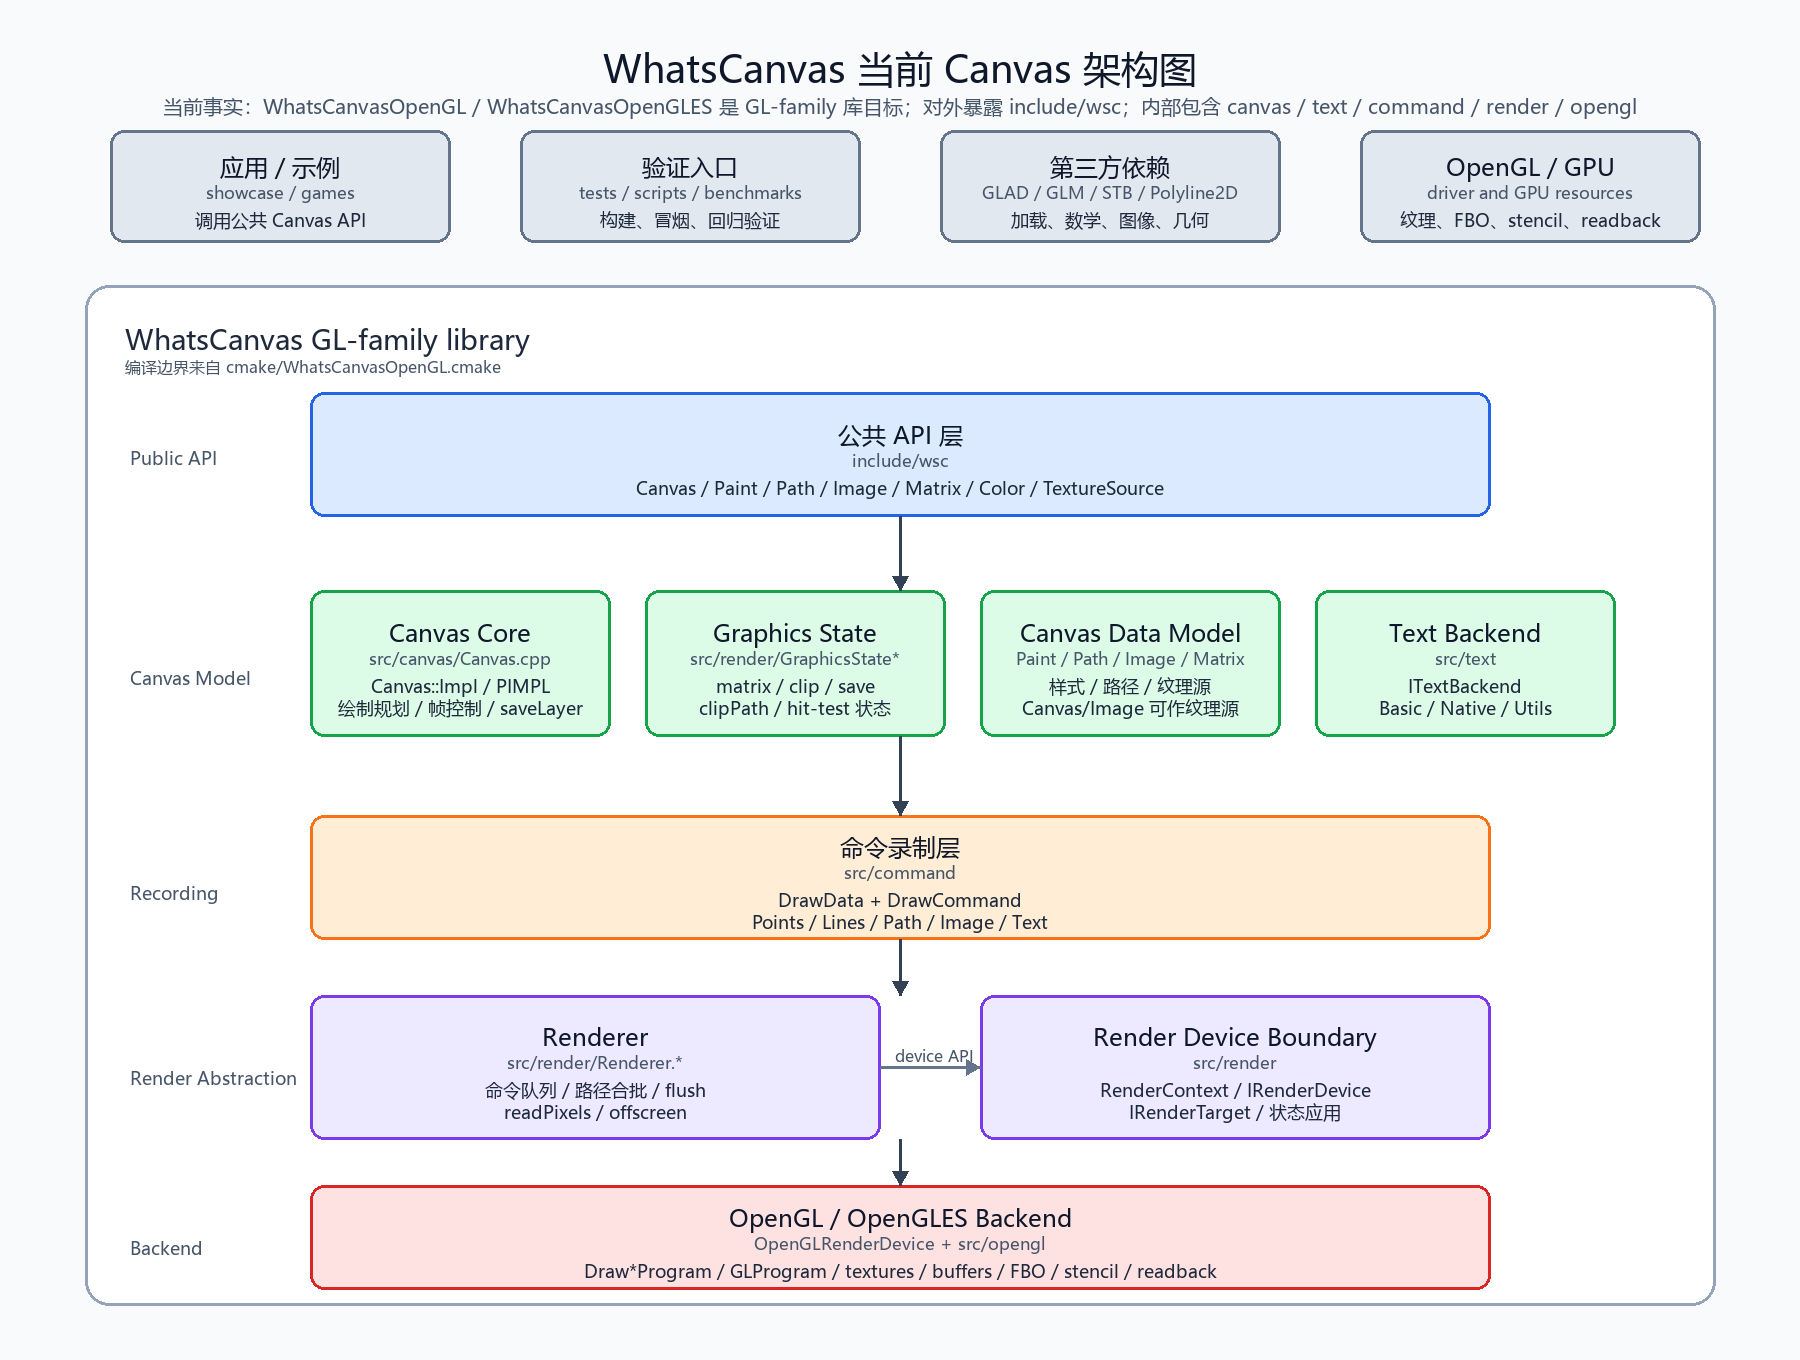
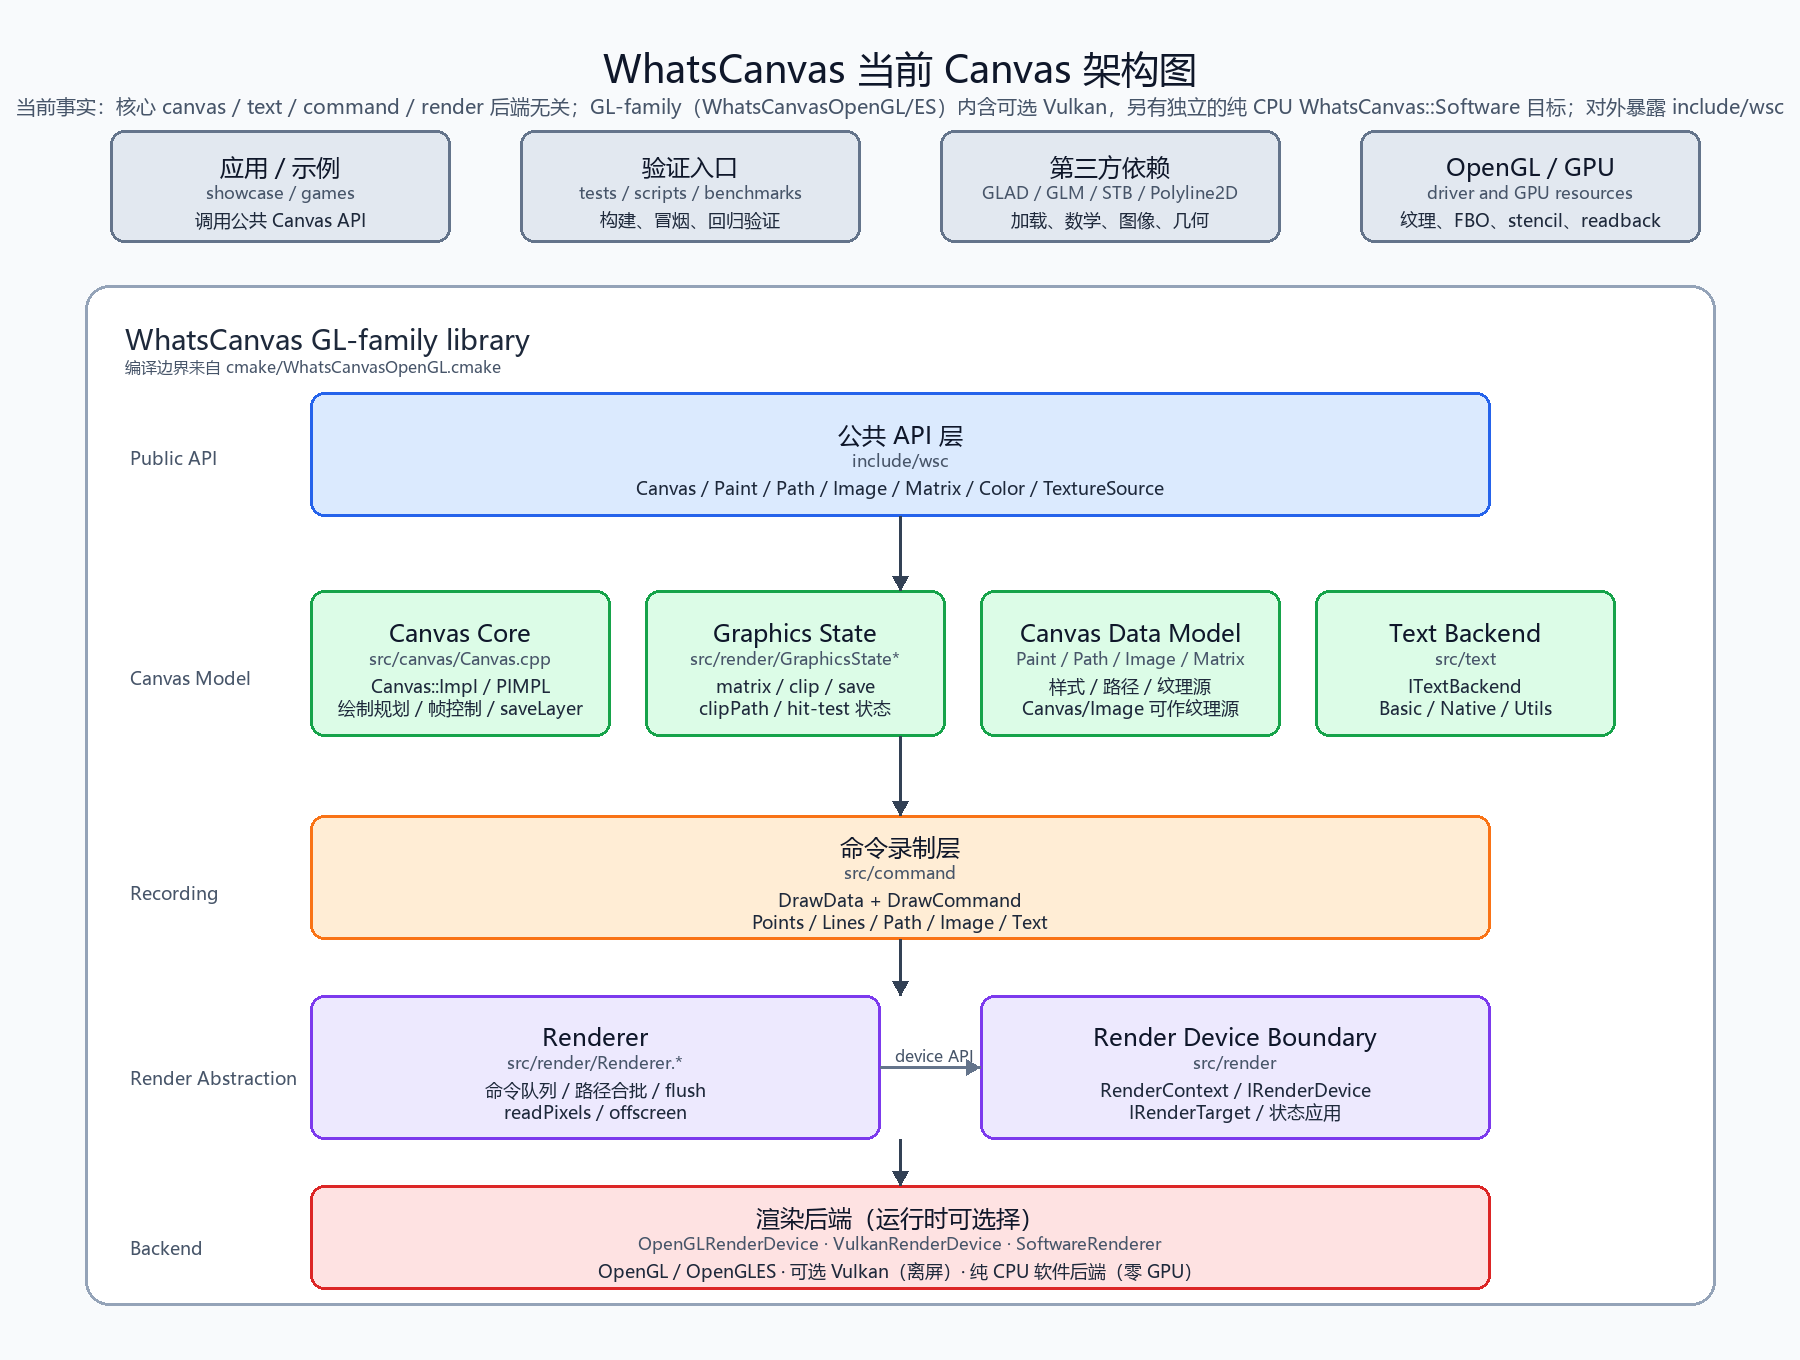
docs: fix stale Vulkan/backend claims and regenerate architecture diagram
Vulkan is now an implemented, user-selectable backend (RenderDeviceFactory constructs VulkanRenderDevice when available), not a nullptr stub / '扩展空间'. Updates the positioning bullet, the peer-comparison backend cell, the RenderDeviceFactory architecture note (Vulkan implemented, only Metal is a nullptr stub, software goes through the standalone SoftwareRenderer), the quickstart link comment (Vulkan compiles into ::OpenGL, no separate ::Vulkan target), and the roadmap (software lib + Vulkan done). Regenerates images/canvas-architecture.png via the diagram script so the Backend layer lists OpenGL/ES, Vulkan, and Software.

Changed region(s): [[0.0, 0.0618, 0.9956, 0.0926], [0.3111, 0.8647, 0.6844, 0.9574]]

diff --git a/scripts/generate_canvas_architecture_diagram.py b/scripts/generate_canvas_architecture_diagram.py
@@ -123,7 +123,7 @@ def main() -> None:
     centered_text(
         draw,
         (900, 92),
-        "当前事实：WhatsCanvasOpenGL / WhatsCanvasOpenGLES 是 GL-family 库目标；对外暴露 include/wsc；内部包含 canvas / text / command / render / opengl",
+        "当前事实：核心 canvas / text / command / render 后端无关；GL-family（WhatsCanvasOpenGL/ES）内含可选 Vulkan，另有独立的纯 CPU WhatsCanvas::Software 目标；对外暴露 include/wsc",
         SUBTITLE,
         "#475569",
     )
@@ -151,7 +151,7 @@ def main() -> None:
         Box("command", (310, 815, 1180, 124), "#ffedd5", "#f97316", "命令录制层", "src/command", ("DrawData + DrawCommand", "Points / Lines / Path / Image / Text")),
         Box("renderer", (310, 995, 570, 144), "#ede9fe", "#7c3aed", "Renderer", "src/render/Renderer.*", ("命令队列 / 路径合批 / flush", "readPixels / offscreen")),
         Box("device", (980, 995, 510, 144), "#ede9fe", "#7c3aed", "Render Device Boundary", "src/render", ("RenderContext / IRenderDevice", "IRenderTarget / 状态应用")),
-        Box("opengl", (310, 1185, 1180, 104), "#fee2e2", "#dc2626", "OpenGL / OpenGLES Backend", "OpenGLRenderDevice + src/opengl", ("Draw*Program / GLProgram / textures / buffers / FBO / stencil / readback",)),
+        Box("opengl", (310, 1185, 1180, 104), "#fee2e2", "#dc2626", "渲染后端（运行时可选择）", "OpenGLRenderDevice · VulkanRenderDevice · SoftwareRenderer", ("OpenGL / OpenGLES · 可选 Vulkan（离屏）· 纯 CPU 软件后端（零 GPU）",)),
     ]
 
     all_boxes = external + boxes
